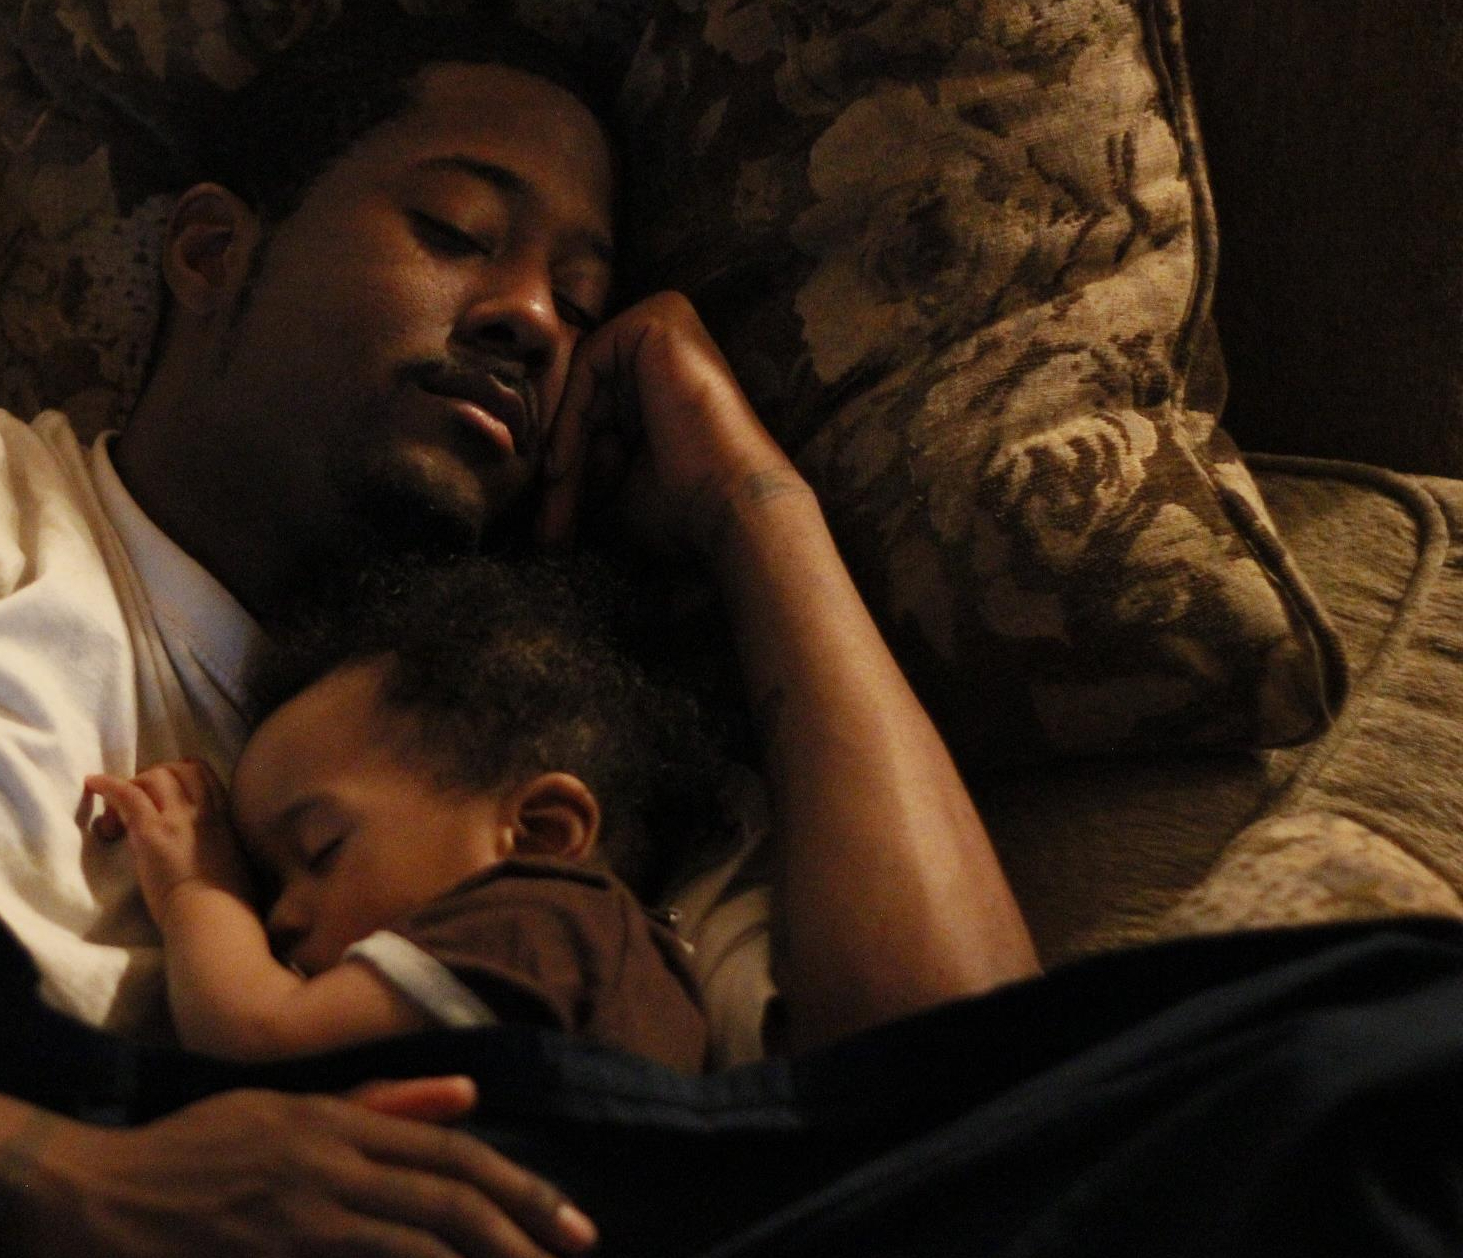
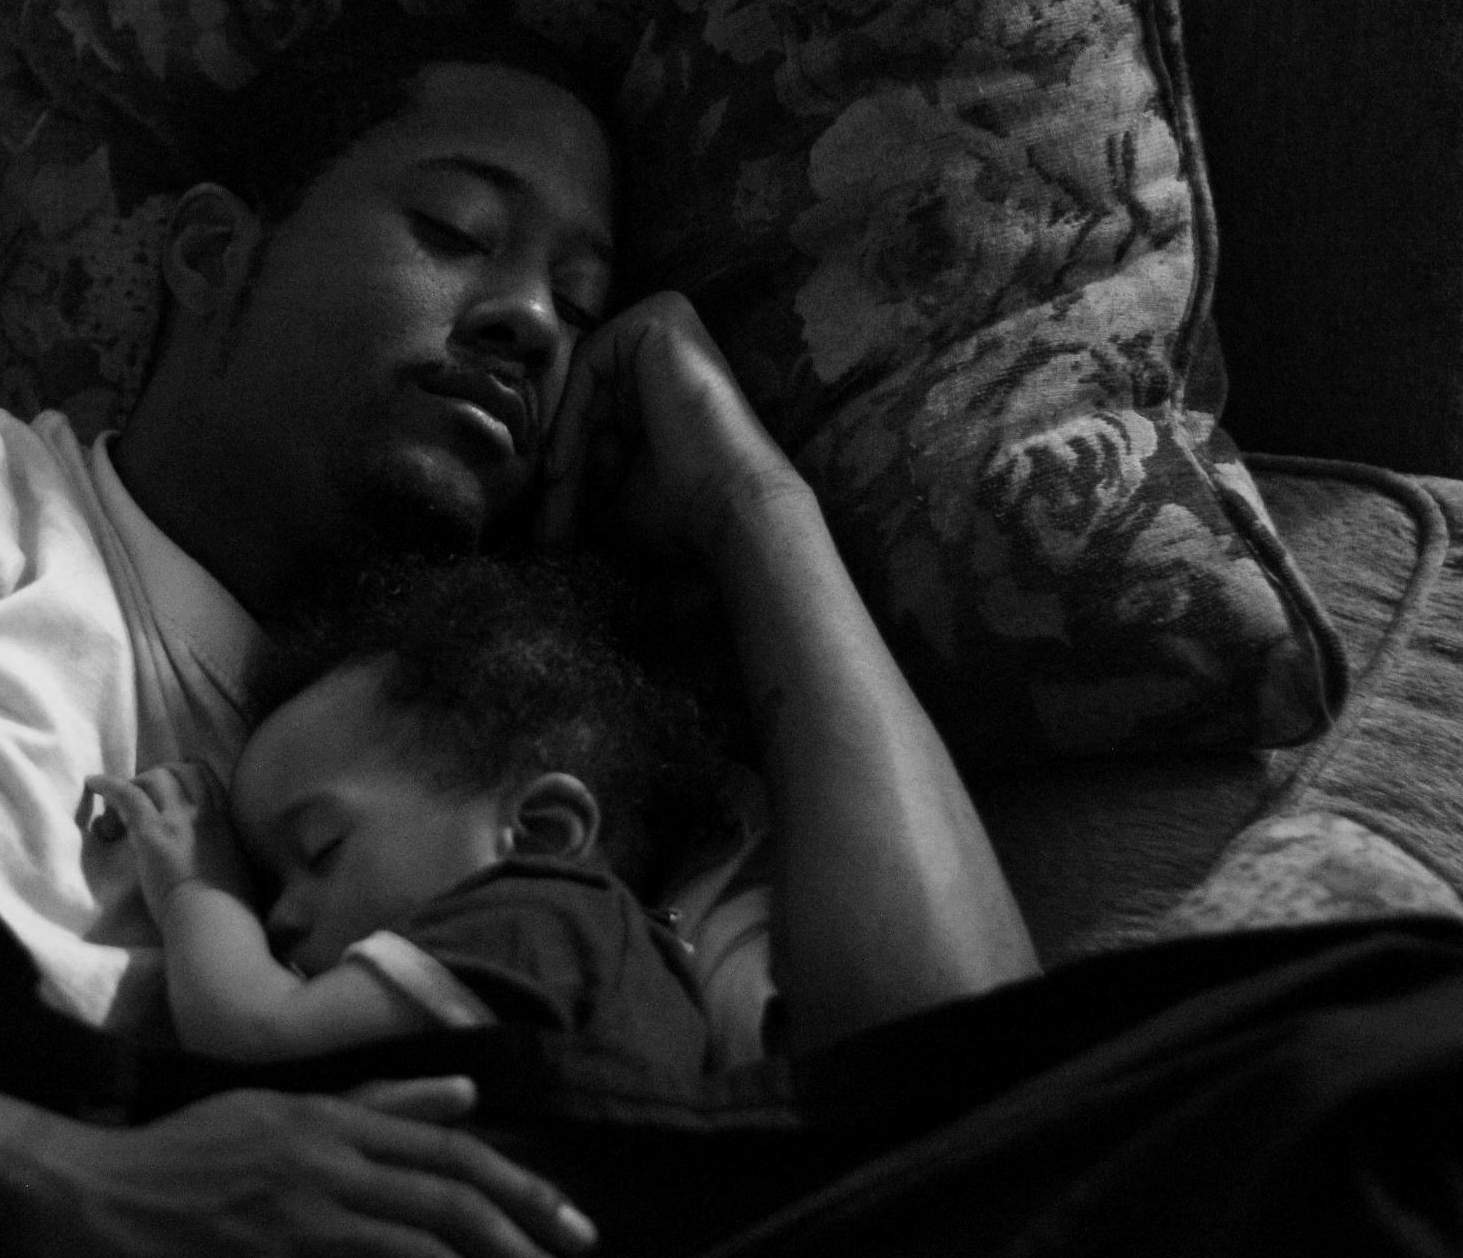
made the background photo of me an my son monochrome and changed the styling of the entry div a bit

diff --git a/src/components/Journal.js b/src/components/Journal.js
@@ -53,7 +53,7 @@ const JournalEntry = (props) =>{
 
        return(
               <div className='entryDiv'>
-                <div id='actualEntry'>{props.entry}</div>                   
+                <div id='actualEntry'>{props.entry}</div>                  
                 <div id='datediv'>posted on {props.dateTime}</div>
               </div>
 
@@ -66,6 +66,8 @@ return(
 
 <JournalEntry dateTime={'April-23-2021 9:45pm'} entry={'What a day! spent the majority of the day practicing the pern stack and good ol typing. tomorrows forecast, more work'} />
 <JournalEntry dateTime={dateTime} entry={'this is a test entry'} />
+<JournalEntry dateTime={dateTime} entry={'another test'} />
+
 
 </div>
 

diff --git a/src/components/Journal.css b/src/components/Journal.css
@@ -7,7 +7,7 @@
     background-image: url('../meAndNick.jpg');
     background-position: center;
     background-size: cover;
-    height: 100%;
+    
 }
 
 .entryDiv{
@@ -27,7 +27,7 @@
 }
 
 #actualEntry{
-    background-color: rgb(0, 34, 102);
+    background-color: rgb(47, 73, 124);
 }
 
 #datediv{
